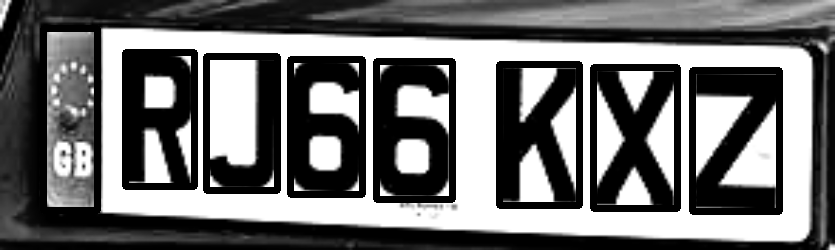
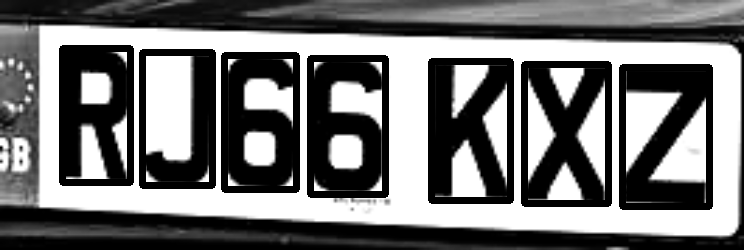
feat: integrated vehicle extraction into main flow

diff --git a/Lib/Detection/main.py b/Lib/Detection/main.py
@@ -3,14 +3,18 @@ import cv2
 from matplotlib import pyplot as plt
 from skimage import io
 from datetime import datetime
+import os
 
 
 def yolo_detect(img, height, width, channels):
     # yolo
-    net = cv2.dnn.readNet("yolov3.weights", "yolov3.cfg")
+    # print(os.getcwd())
+    net = cv2.dnn.readNet(os.path.join(
+        os.getcwd(), "Lib/Detection/yolov3.weights"), os.path.join(os.getcwd(), "Lib/Detection/yolov3.cfg"))
     classes = []
 
-    with open("coco.names", "r") as f:
+    with open(os.path.join(
+            os.getcwd(), "Lib/Detection/coco.names"), "r") as f:
         classes = [line.strip() for line in f.readlines()]
     layer_names = net.getLayerNames()
     output_layers = [layer_names[i[0] - 1]
@@ -105,18 +109,18 @@ def visualize_detection(img, boxes, indexes, classes, class_ids):
             # Crop out unwanted region
             cropped_image = img[y+10:y+h-10, x+10:x+w-15]
             # print(x,x+h,y,y+w)
-            cv2.imshow('Cropped Image', cropped_image)
 
     cv2.imshow("Image", img)
     cv2.waitKey(0)
     cv2.destroyAllWindows()
+    cropped_image = cv2.resize(cropped_image, None, fx=1, fy=1)
     return cropped_image, label
 
 
-def yolo_detection(image_path):
+def yolo_detection(img):
     # Loading image
-    img = cv2.imread(image_path)
-    img = cv2.resize(img, None, fx=0.6, fy=0.6)
+    # img = cv2.imread(img)
+    img = cv2.resize(img, None, fx=1, fy=1)
     height, width, channels = img.shape
 
     max_area_boxes, indexes, classes, class_ids = yolo_detect(
@@ -124,7 +128,8 @@ def yolo_detection(image_path):
 
     cropped_image, label = visualize_detection(img,
                                                max_area_boxes, indexes, classes, class_ids)
-    cv2.imwrite("../Dataset/Cropped_Vehicle.jpg", cropped_image)
+
+    cv2.imwrite("../../Dataset/Cropped_Vehicle.jpg", cropped_image)
 
     # Getting the dominant Color
     data = np.reshape(cropped_image, (-1, 3))
@@ -141,15 +146,15 @@ def yolo_detection(image_path):
     h, s, v = rgb_to_hsv(r, g, b)
 
     # Printing All the Details Analysed
-    print("Dominant color in RGB: ", r, g, b)
-    print('Predicted Major Color of the vehicle (in HSV):', h, s, v)
+    # print("Dominant color in RGB: ", r, g, b)
+    # print('Predicted Major Color of the vehicle (in HSV):', h, s, v)
 
     now = datetime.now()
     dt_string = now.strftime("%d/%m/%Y %H:%M:%S")
-    print("Time of Entry:", dt_string)
+    # print("Time of Entry:", dt_string)
 
-    print("Predicted Vehicle Type:", label)
-    return h, v, dt_string, label
+    # print("Predicted Vehicle Type:", label)
+    return h, v, dt_string, label, cropped_image
 
 
-yolo_detection("../../Demo/res2.jpg")
+# yolo_detection("../../Demo/res2.jpg")

diff --git a/Lib/main.py b/Lib/main.py
@@ -4,6 +4,7 @@ from detectron2.utils.logger import setup_logger
 from detectron2.utils.visualizer import ColorMode, Visualizer
 from detectron2.engine.defaults import DefaultPredictor
 from Config.model_config import load_config
+from Detection.main import yolo_detection
 from segmentation import *
 import cv2
 import os
@@ -25,22 +26,33 @@ def test():
     predictor = DefaultPredictor(cfg)
 
     # ---------------------------------------------------------------
-    # Load image to test and produce output
+    # Load image to test
     # ---------------------------------------------------------------
     print("- Reading test image")
     try:
         img = cv2.imread(
             "/home/vishals/projects/Securise/Dataset/Misc/CarNP/8c24eab2f1.jpg")
     except Exception as e:
-        print("Err: {}", format(e))
+        print("Err: {}".format(e))
         exit()
 
+    # ---------------------------------------------------------------
+    # Vehicle extraction - yolo
+    # ---------------------------------------------------------------
+    print("- Predicting properties of the vehicle")
+    (h, v, dt_string, label, cimg) = yolo_detection(img)
+    print("## Vehicle type: {}\n## Vehicle color: {} {}\n## Vehicle entry time: {}\n".
+          format(label, h, v, dt_string))
+
+    # ---------------------------------------------------------------
+    # Extracting number plate
+    # ---------------------------------------------------------------
     print("- Predicting Bounding boxes")
-    output = predictor(img)
+    output = predictor(cimg)
     inst = output["instances"]
 
     visualizer = Visualizer(
-        img[:, :, ::-1], metadata=metadata, scale=0.7, instance_mode=ColorMode.SEGMENTATION)
+        cimg[:, :, ::-1], metadata=metadata, scale=0.7, instance_mode=ColorMode.SEGMENTATION)
     out = visualizer.draw_instance_predictions(inst.to("cpu"))
     cv2.imwrite(os.path.join(os.getcwd(), "Demo/res2.jpg"),
                 out.get_image()[:, :, ::-1])
@@ -53,7 +65,7 @@ def test():
     # ---------------------------------------------------------------
     print("- Generating ROI")
     boxes = inst.pred_boxes.tensor.detach().cpu().numpy()[0].astype(np.int32)
-    roi = img[boxes[1]:boxes[3], boxes[0]:boxes[2]]
+    roi = cimg[boxes[1]:boxes[3], boxes[0]:boxes[2]]
     roi = cv2.detailEnhance(roi, sigma_s=15, sigma_r=0.5)
 
     # ---------------------------------------------------------------

diff --git a/Lib/segmentation.py b/Lib/segmentation.py
@@ -65,7 +65,7 @@ def character_segmentation(image, j):
         # if width / float(w) > 15: continue
 
         area = w*h
-        print("Character{} :".format(ROI_number), area)
+        # print("Character{} :".format(ROI_number), area)
         if area < 2000:
             continue
 
@@ -92,7 +92,7 @@ def character_segmentation(image, j):
             plate_num += clean_text[0]
         except:
             text = None
-            print("Plate", text)
+            print("## Plate", text)
         ext_path = "./Lib/Extracted_NP_Characters"
         if os.path.isdir(ext_path) == False:
             os.mkdir(ext_path)
@@ -102,5 +102,5 @@ def character_segmentation(image, j):
         ROI_number += 1
 
     if plate_num != None:
-        print("License Plate #: ", plate_num)
+        print("- License Plate #: ", plate_num)
     return plate_num
